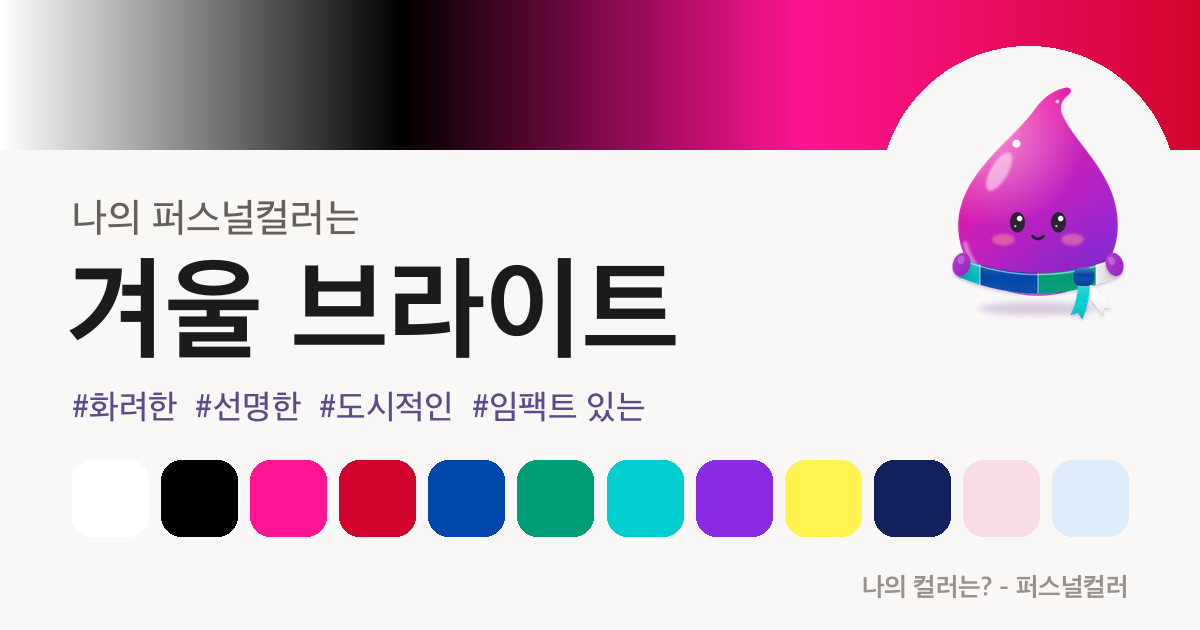
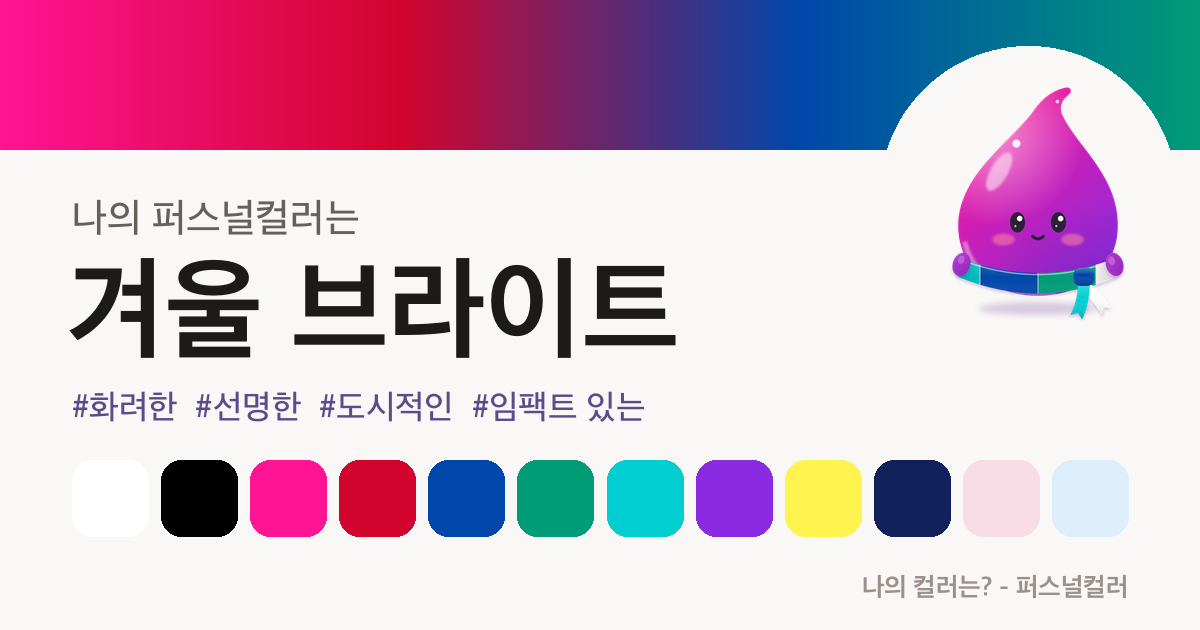
Share pages: tone band skips pure white/black

Changed region(s): [[0.0, 0.0, 1.0, 0.2413]]

diff --git a/r/winter_bright/index.html b/r/winter_bright/index.html
@@ -34,7 +34,7 @@
   </div>
 </header>
 <main class="wrap share">
-  <div class="share-band" style="background:linear-gradient(90deg,#FFFFFF,#000000,#FF1493,#D2042D)" aria-hidden="true">
+  <div class="share-band" style="background:linear-gradient(90deg,#FF1493,#D2042D,#0047AB,#009B77)" aria-hidden="true">
     <img class="share-tinty bob" src="/assets/tinty/winter_bright.svg" alt="" width="132" height="132">
   </div>
   <section class="share-card">

diff --git a/r/winter_deep/index.html b/r/winter_deep/index.html
@@ -34,7 +34,7 @@
   </div>
 </header>
 <main class="wrap share">
-  <div class="share-band" style="background:linear-gradient(90deg,#000000,#FFFFFF,#5E1224,#A50F2D)" aria-hidden="true">
+  <div class="share-band" style="background:linear-gradient(90deg,#5E1224,#A50F2D,#472C4C,#5A2D82)" aria-hidden="true">
     <img class="share-tinty bob" src="/assets/tinty/winter_deep.svg" alt="" width="132" height="132">
   </div>
   <section class="share-card">

diff --git a/r/winter_true/index.html b/r/winter_true/index.html
@@ -34,7 +34,7 @@
   </div>
 </header>
 <main class="wrap share">
-  <div class="share-band" style="background:linear-gradient(90deg,#FFFFFF,#000000,#C41E3A,#800032)" aria-hidden="true">
+  <div class="share-band" style="background:linear-gradient(90deg,#C41E3A,#800032,#B5006E,#2A52BE)" aria-hidden="true">
     <img class="share-tinty bob" src="/assets/tinty/winter_true.svg" alt="" width="132" height="132">
   </div>
   <section class="share-card">

diff --git a/tools/make_og.py b/tools/make_og.py
@@ -30,6 +30,12 @@ CHROME = "/Applications/Google Chrome.app/Contents/MacOS/Google Chrome"
 ICON_BG = "#EFEBF6"
 
 
+
+def band_hexes(tone):
+    """First 4 best colors for the top band, skipping pure white/black (winter tones list them early)."""
+    hexes = [c["hex"] for c in tone["bestColors"] if c["hex"].upper() not in ("#FFFFFF", "#000000")]
+    return hexes[:4]
+
 def rasterize(svgs):
     """512-box SVG strings -> 1024px transparent RGBA images (headless Chrome)."""
     with tempfile.TemporaryDirectory() as tmp:
@@ -77,7 +83,7 @@ def gradient(w, h, colors):
 def make_image(tone, char, out):
     W, H = 1200, 630
     img = Image.new("RGB", (W, H), "#FAF8F6")
-    img.paste(gradient(W, 150, [c["hex"] for c in tone["bestColors"][:4]]), (0, 0))
+    img.paste(gradient(W, 150, band_hexes(tone)), (0, 0))
     d = ImageDraw.Draw(img)
     d.ellipse((880, 46, 1176, 342), fill="#FAF8F6")  # sticker that lifts Tinty off the tone band
     paste(img, char, 900, 52, 276)
@@ -172,7 +178,7 @@ def make_page(tone, out):
     out.write_text(PAGE.format(
         title=e(f"나의 퍼스널컬러는 {tone['nameKo']}!"), summary=e(tone["summary"]), app=e(APP_NAME),
         image=f"{SITE}/r/og/{tid}.png", url=url, tid=tid, play=PLAY, intent=intent, name=e(tone["nameKo"]),
-        grad=",".join(c["hex"] for c in tone["bestColors"][:4]),
+        grad=",".join(band_hexes(tone)),
         tags="".join(f"<li>#{e(k)}</li>" for k in tone["keywords"]),
         names=e(", ".join(c["name"] for c in tone["bestColors"][:12])),
         swatches="".join(f'<span style="background:{c["hex"]}" title="{e(c["name"])}"></span>' for c in tone["bestColors"][:12]),
